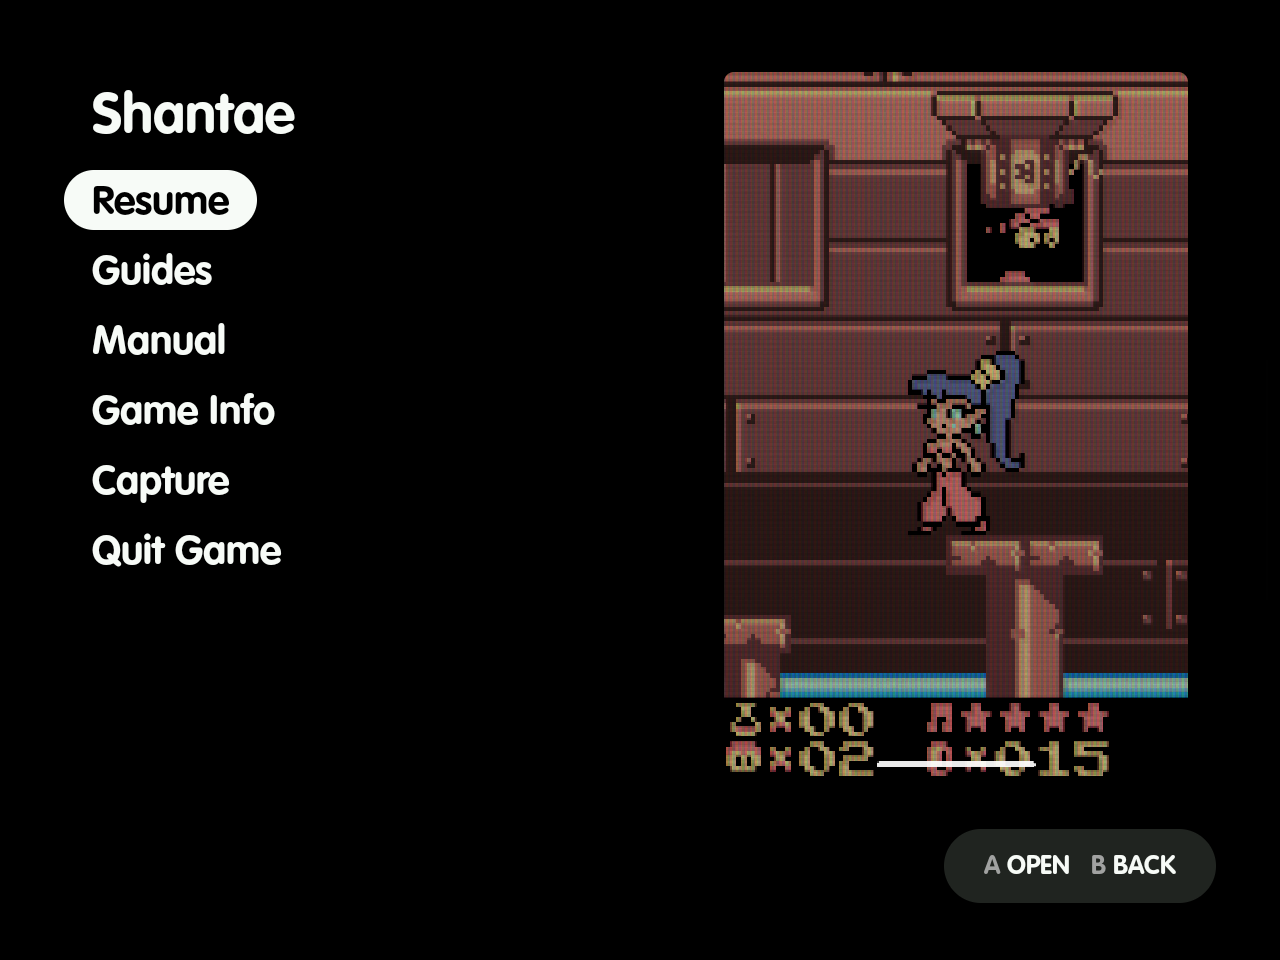
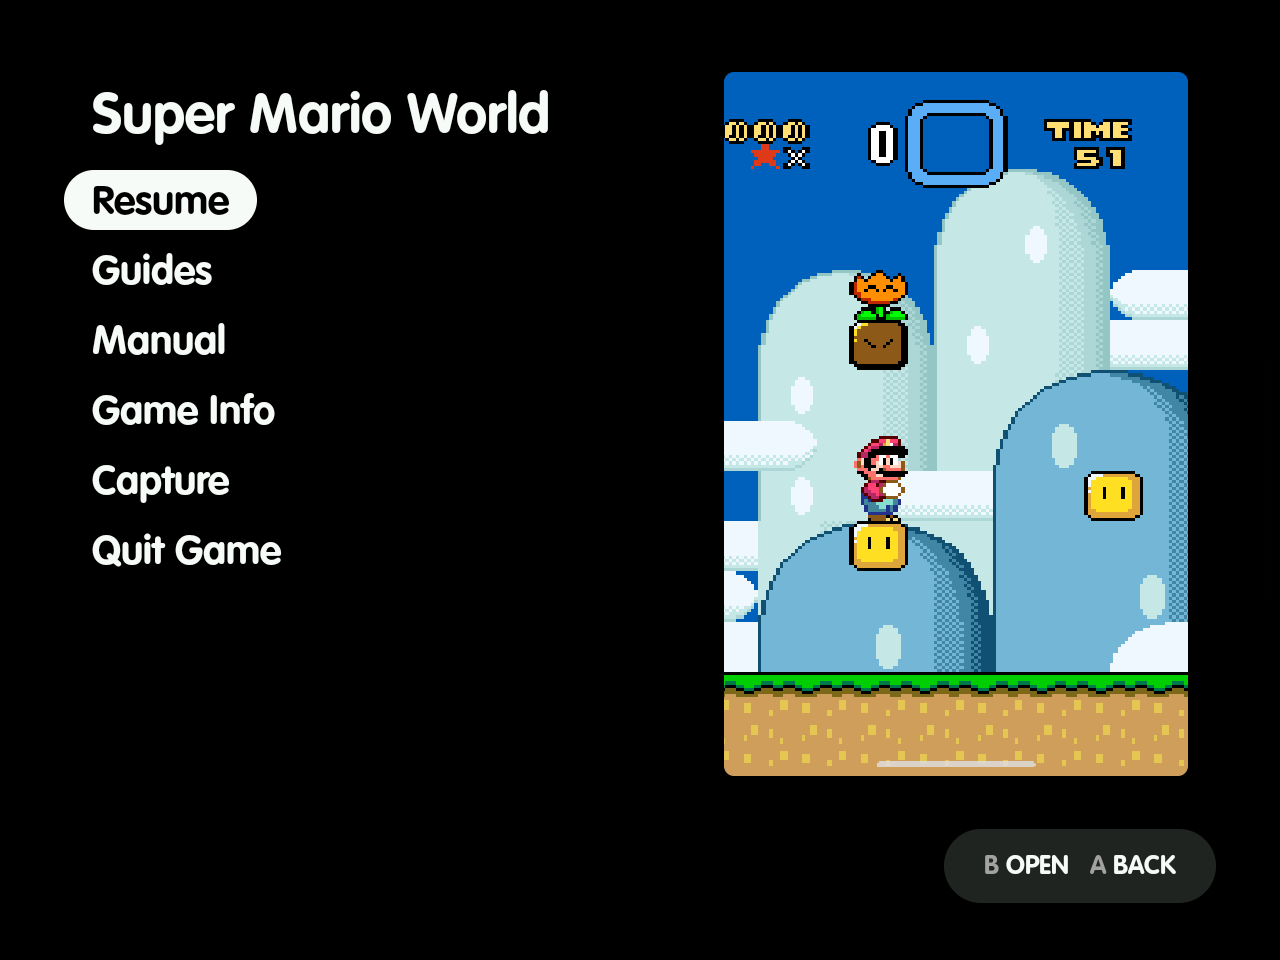
Show Super Mario World and six themes on the site
Every screenshot is reshot with Super Mario World in Yoshi's
Island 1. The menu is shown under MinUI Menu (Overlay), Art Book
Next, Iconic, TechDweeb, Canvas and Linear, each beside ES-DE's
own gamelist, in place of Modern and Slate.

Captions, example paths, Find Guides results, credits and the
video recipe follow. The Use page gains the toast screenshot and
a line on ES-DE's button swap, which the pictures show.

Changed region(s): [[0.5625, 0.0625, 0.9375, 0.8125], [0.0938, 0.0938, 0.4375, 0.1562], [0.7812, 0.875, 0.8438, 0.9062]]

diff --git a/.apo/01_Knowledge/Showcase_Video.md b/.apo/01_Knowledge/Showcase_Video.md
@@ -8,7 +8,7 @@ title: "Showcase Video"
 status: planned
 owner: ""
 created: '2026-11-09'
-updated: '2026-11-09'
+updated: '2026-11-10'
 reviewed_on: ""
 related_notes: []
 tags: [apovault, knowledge, playbooks]
@@ -22,8 +22,8 @@ How to record the two-to-three-minute showcase video on the Retroid Pocket Nova.
 
 ### Before recording
 
-- Use Shantae (`gbc`). It has a manual, a VGMaps CBZ, StrategyWiki, GameFAQs and IGN guides, and scraped media.
-- Start from the MinUI Menu (Custom) theme. Shot 11 switches to Modern, so have Modern installed from ES-DE's theme downloader.
+- Use Super Mario World (`snes`). On the Nova it has a manual, `VGMaps - Super Mario World.cbz` (76 maps), a StrategyWiki guide (98 pages), a GameFAQs guide (Crazyreyn's), an IGN guide, and scraped media.
+- Start from the MinUI Menu (Overlay) theme. Shot 11 switches to Canvas, so have Canvas installed from ES-DE's theme downloader. Art Book Next, Iconic, TechDweeb and Linear are the other themes the site shows.
 - Keep the Nova on Wi-Fi: shots 7 and 8 download guides.
 - Set ES-DE's screensaver to never (UI Settings > Screensaver settings) and set it back afterwards. The Nova's is at 1 minute.
 - Have the overlay service running with capture consent (Start Now in its settings).
@@ -82,26 +82,30 @@ For screenrecord takes, replace the `-af … -ar 48000` part with `-an`.
 
 | # | Shot | Length |
 |---|---|---|
-| 1 | ES-DE gamelist on Shantae; launch it. | 0:10 |
+| 1 | ES-DE gamelist on Super Mario World; launch it. | 0:10 |
 | 2 | Back opens the menu; D-pad over the rows; B returns to the game. | 0:10 |
 | 3 | Capture > Screenshot and Video; play for the 15 s clip; the Saved toast. | 0:25 |
 | 4 | Home: the overlay ends the game and ES-DE shows the new screenshot, then plays the clip. | 0:10 |
 | 5 | Relaunch; Manual; turn a page; R1 to zoom and pan. | 0:15 |
-| 6 | Guides > VGMaps - Shantae.cbz; Y for the maps list; jump to a map; zoom and pan. | 0:20 |
+| 6 | Guides > VGMaps - Super Mario World.cbz; Y for the maps list; jump to Yoshi's Island 1; zoom and pan. | 0:20 |
 | 7 | Find Guides > StrategyWiki; the progress; it opens; Y for the contents. | 0:25 |
-| 8 | Find Guides > Search GameFAQs; pick DEngel's guide; Save Guide; it opens in the viewer. Trim the page loads. | 0:30 |
+| 8 | Find Guides > Search GameFAQs; pick Crazyreyn's guide; Save Guide; it opens in the viewer. Trim the page loads. | 0:30 |
 | 9 | Game Info: scroll the description. | 0:05 |
 | 10 | Quit Game: ES-DE is back at once. | 0:05 |
-| 11 | ES-DE UI Settings > Theme > Modern; launch Shantae; Back: the menu now matches Modern. | 0:20 |
+| 11 | ES-DE UI Settings > Theme > Canvas; launch Super Mario World; Back: the menu now matches Canvas. | 0:20 |
 
+- **Buttons are named as ES-DE's defaults.** With ES-DE's button swap on (as on the Nova on 2026-11-10), A and B trade places, and so do X and Y; follow the hints on screen.
+- **Turn RetroArch's shader off before shot 3.** With a shader on, the captured screenshot and clip come out with wrong colours (seen 2026-11-10). The menu's picture and ES-DE's gamelist then show that capture.
+- **Shot 3 replaces the game's scraped screenshot and video in ES-DE.** Copy `snes/screenshots/Super Mario World.png` and `snes/videos/Super Mario World.mp4` off the Nova first and put them back afterwards.
+- **If Back doesn't open the menu after a launch, quit the game and launch it again.** Overlay 1.0.0 misses a launch whose log lines cross a second.
 - **Shot 4 and shot 10 both end the game.** Save in-game before them if the progress matters.
 - **Shot 8: GameFAQs may show Cloudflare's "Verify you are human" box.** Tap it yourself and cut the wait from the take.
-- **DEngel's guide is a single page**, so it saves without a progress counter. To show "Saving page N of M", use an IGN guide through Search the Web instead.
-- **Find Guides and Save Guide replace the guide files Shantae already has.** No extra files are left behind.
+- **Crazyreyn's guide is a single page**, so it saves without a progress counter. To show "Saving page N of M", use IGN's Super Mario World guide (14 pages) through Search the Web instead.
+- **Find Guides and Save Guide replace the guide files Super Mario World already has.** No extra files are left behind.
 
 ### After recording
 
-- Switch the theme back to MinUI Menu (Custom) and set the screensaver back.
+- Switch the theme back to MinUI Menu (Overlay) and set the screensaver back.
 - Keep video files out of the repo. Upload the cut, then link it from the README.
 - No title cards or music yet; add them in an editor later if wanted.
 

diff --git a/docs/use.md b/docs/use.md
@@ -14,9 +14,10 @@ Launch a game from ES-DE and press **Back** on the controller. The menu opens ov
 - **Capture** saves a screenshot, a clip, or both, into ES-DE's media folders.
 - **Quit Game** ends the game's app and returns to ES-DE.
 
-![The menu over Shantae](images/menu.png)
+![The menu over Super Mario World](images/menu.png)
 
 - The menu opens on **Resume**. The D-pad moves, **A** opens, and **B** closes the menu and returns to the game, as Resume does. The cursor stops at the first and last rows.
+- With ES-DE's **Swap the A/B and X/Y buttons** setting on, the overlay swaps them too. The screenshots here are from a device with it on, so their hints read `B OPEN` and `A BACK`.
 - **B** in any screen opened from the menu comes back to the row that opened it.
 - **Back** again closes everything the menu has open, a guide or the browser too, and returns to the game.
 - Home closes the menu and anything open over it, and goes to ES-DE. The game keeps running unless **Quit games left with Home** is on (see [Shizuku](shizuku.md)).
@@ -40,6 +41,8 @@ A toast and a notification name the saved files, e.g. `Saved: snes/screenshots/0
 System screenshots (Power + Volume down) taken during a game are filed the same way. ES-DE shows new media when you return to the gamelist; no reload is needed.
 
 ![The Capture menu](images/capture.png)
+
+![The toast naming the saved screenshot](images/capture-saved.png)
 
 ![ES-DE's gamelist showing a captured screenshot](images/esde-gamelist.png)
 
@@ -66,7 +69,7 @@ System screenshots (Power + Volume down) taken during a game are filed the same 
 
 ### Find Guides
 
-**Find Guides** checks VGMaps and StrategyWiki for the game and lists the ones that have it, e.g. `VGMaps: 56 Maps` and `StrategyWiki: Shantae (2 Pages)`.
+**Find Guides** checks VGMaps and StrategyWiki for the game and lists the ones that have it, e.g. `VGMaps: 76 Maps` and `StrategyWiki: Super Mario World (98 Pages)`.
 
 - Picking one saves it, with progress in the menu (**B** cancels and saves nothing), and then opens it. The main menu shows Guides from then on.
 - Picking a source again replaces the saved file.
@@ -162,9 +165,9 @@ Add guides next to ES-DE's other media, named like the ROM, or let **Find Guides
 Find Guides saves into the folder form, for example:
 
 ```
-<ES-DE>/downloaded_media/gbc/guides/Shantae/VGMaps - Shantae.cbz
+<ES-DE>/downloaded_media/snes/guides/Super Mario World/VGMaps - Super Mario World.cbz
 <ES-DE>/downloaded_media/snes/guides/Super Metroid/StrategyWiki - Super Metroid.html
-<ES-DE>/downloaded_media/gbc/guides/Shantae/GameFAQs - Shantae – Guide and Walkthrough by DEngel.html
+<ES-DE>/downloaded_media/snes/guides/Super Mario World/GameFAQs - Super Mario World – Guide and Walkthrough by Crazyreyn.html
 ```
 
 What each kind of save holds:

diff --git a/docs/credits.md b/docs/credits.md
@@ -17,11 +17,16 @@ ES-DE Overlay is MIT-licensed. It builds on, reads from and borrows ideas from t
 - **Your ES-DE theme.** The menu, guides and browser take the colours and fonts of the theme you use, read from the theme's own files. No theme files or fonts ship with the app, VAG Rounded included.
 - **[Linear](https://gitlab.com/es-de/emulationstation-de/-/tree/master/themes/linear-es-de)**, ES-DE's bundled theme, by Northwestern Software AB, Leon Styhre and Weestuarty. Licence: MIT. Its dark colour values are the overlay's built-in look, used when the active theme can't be read.
 
-## The theme in the screenshots
+## The themes in the screenshots
 
 - **[minui-menu-es-de](https://github.com/anthonycaccese/minui-menu-es-de)** by Anthony Caccese, a port of Shaun Inman's MinUI menu. Licence: CC BY-NC-SA, as stated in its `theme.xml`. The screenshots use a fork by ES-DE Overlay's author, **[minui-menu-overlay-es-de](https://github.com/clintonium-119/minui-menu-overlay-es-de)**, under the same licence; see [Theme](theme.md).
 - **[MinUI](https://github.com/shauninman/MinUI)** by Shaun Inman. Its repository states no licence. Its menu is where the theme's layout, and so the screenshots' look, comes from. No MinUI code is used.
-- **[Modern](https://gitlab.com/es-de/themes/modern-es-de)** and **[Slate](https://gitlab.com/es-de/themes/slate-es-de)**, ES-DE's themes from its theme downloader. Licence: CC BY-NC-SA 4.0. They appear only in screenshots.
+- **[Art Book Next](https://github.com/anthonycaccese/art-book-next-es-de)** by Anthony Caccese. Licence: CC BY-NC-SA, as stated in its `theme.xml`.
+- **[Iconic](https://github.com/Siddy212/iconic-es-de)** by Siddy212. Licence: its `theme.xml` states CC BY-NC-SA 2.0; its `LICENSE` file is CC0 1.0.
+- **[TechDweeb](https://github.com/anthonycaccese/techdweeb-es-de)**, designed by TechDweeb and ported to ES-DE by Anthony Caccese. Licence: CC BY-NC-SA, as stated in its `theme.xml`.
+- **[Canvas](https://github.com/Siddy212/canvas-es-de)** by Siddy212. Licence: its `theme.xml` states CC BY-NC-SA 2.0; its `LICENSE` file is CC0 1.0.
+
+These four come from ES-DE's theme downloader and appear only in screenshots, as does Linear, credited above. The ES-DE gamelist screenshots show each theme's own artwork.
 
 ## Inspiration
 

diff --git a/docs/theme.md b/docs/theme.md
@@ -10,15 +10,20 @@ The menu, the guide viewer and the guide browser take their colours and font fro
 - the rows and the cursor from its text list;
 - guide text from its game description text;
 - the help pill from its help prompts;
-- the background from its background.
+- the background from its background. A wallpaper picture counts as its average colour.
 
 The overlay keeps its own layout and draws solid colours, not the theme's images. Change the theme in ES-DE and the overlay follows from the next game you start.
 
-![The menu under MinUI Menu (Overlay)](images/menu.png)
+Six themes, each with ES-DE's own gamelist on the left and the overlay's menu on the right:
 
-![The menu under Modern](images/menu-modern.png)
-
-![The menu under Slate](images/menu-slate.png)
+| ES-DE's gamelist | The overlay's menu |
+| --- | --- |
+| ![ES-DE's gamelist under MinUI Menu (Overlay)](images/esde-gamelist.png) | ![The menu under MinUI Menu (Overlay)](images/menu.png) |
+| ![ES-DE's gamelist under Art Book Next](images/esde-art-book-next.png) | ![The menu under Art Book Next](images/menu-art-book-next.png) |
+| ![ES-DE's gamelist under Iconic](images/esde-iconic.png) | ![The menu under Iconic](images/menu-iconic.png) |
+| ![ES-DE's gamelist under TechDweeb](images/esde-techdweeb.png) | ![The menu under TechDweeb](images/menu-techdweeb.png) |
+| ![ES-DE's gamelist under Canvas](images/esde-canvas.png) | ![The menu under Canvas](images/menu-canvas.png) |
+| ![ES-DE's gamelist under Linear](images/esde-linear.png) | ![The menu under Linear](images/menu-linear.png) |
 
 ## Where it reads the theme from
 
@@ -110,4 +115,4 @@ To use it:
 
 These are the settings on the Retroid Pocket Nova in the screenshots. Use Small. This fork tightens Small's line spacing so ten whole rows fill the list, which keeps ES-DE's scroll jumps landing on full rows.
 
-Modern and Slate, the other two themes above, come from ES-DE's theme downloader.
+Of the other five themes above, Art Book Next, Iconic, TechDweeb and Canvas come from ES-DE's theme downloader, and Linear is built into ES-DE.

diff --git a/README.md b/README.md
@@ -9,11 +9,13 @@
 
 An in-game menu for [ES-DE](https://es-de.org) on Android. Press the controller's **Back** button during a game you launched from ES-DE, and a menu opens over the game, drawn in your ES-DE theme's colours and font. It captures into ES-DE's media, opens the game's manual and guides, shows its ES-DE info and quits the game.
 
-| MinUI Menu (Overlay) | Modern | Slate |
+| MinUI Menu (Overlay) | Art Book Next | Iconic |
 | --- | --- | --- |
-| ![The menu over Shantae under MinUI Menu (Overlay)](docs/images/menu.png) | ![The same menu under Modern](docs/images/menu-modern.png) | ![The same menu under Slate](docs/images/menu-slate.png) |
+| ![The menu over Super Mario World under MinUI Menu (Overlay)](docs/images/menu.png) | ![The same menu under Art Book Next](docs/images/menu-art-book-next.png) | ![The same menu under Iconic](docs/images/menu-iconic.png) |
+| **TechDweeb** | **Canvas** | **Linear** |
+| ![The same menu under TechDweeb](docs/images/menu-techdweeb.png) | ![The same menu under Canvas](docs/images/menu-canvas.png) | ![The same menu under Linear](docs/images/menu-linear.png) |
 
-The same menu under three ES-DE themes; the first is a [fork of minui-menu-es-de](https://github.com/clintonium-119/minui-menu-overlay-es-de). **Documentation:** [clintonium-119.github.io/es-de-overlay](https://clintonium-119.github.io/es-de-overlay/), including [how the look works](https://clintonium-119.github.io/es-de-overlay/theme.html).
+The same menu under six ES-DE themes; the first is a [fork of minui-menu-es-de](https://github.com/clintonium-119/minui-menu-overlay-es-de). **Documentation:** [clintonium-119.github.io/es-de-overlay](https://clintonium-119.github.io/es-de-overlay/), including [how the look works](https://clintonium-119.github.io/es-de-overlay/theme.html).
 
 ## What it adds
 

diff --git a/docs/index.md b/docs/index.md
@@ -5,7 +5,7 @@
 
 An in-game menu for [ES-DE](https://es-de.org) on Android. Press the controller's **Back** button during a game you launched from ES-DE, and a menu opens over the game. It's laid out like a gamelist and drawn in the colours and font of your ES-DE theme.
 
-![The overlay's menu over Shantae, in the MinUI Menu (Overlay) theme](images/menu.png)
+![The overlay's menu over Super Mario World, in the MinUI Menu (Overlay) theme](images/menu.png)
 
 ## What it does
 
@@ -15,11 +15,11 @@ An in-game menu for [ES-DE](https://es-de.org) on Android. Press the controller'
 
 **Manuals and guides in the game.** Read the game's scraped manual, or guides you add next to ES-DE's media: PDF, text, images, CBZ map packs and saved web pages. **Find Guides** gets maps from VGMaps and walkthroughs from StrategyWiki. It can also open GameFAQs, Neoseeker and ZeldaDungeon in a browser over the game and save a guide for reading offline. The viewer works like ES-DE's own manual viewer.
 
-![A VGMaps map of Shantae in the viewer](images/viewer-map.png)
+![A VGMaps map of Super Mario World in the viewer](images/viewer-map.png)
 
 **Your theme's look.** The menu, the guide viewer and the browser take their colours and font from the ES-DE theme you use. Change the theme in ES-DE and the overlay follows.
 
-![The same menu under ES-DE's Modern theme](images/menu-modern.png)
+![The same menu under the Canvas theme](images/menu-canvas.png)
 
 It also shows the game's ES-DE info and can quit the game. See [Use](use.md) for every feature and [Theme](theme.md) for how the look works.
 

diff --git a/docs/limitations.md b/docs/limitations.md
@@ -64,7 +64,7 @@ Turning the screen off when ES-DE is idle needs ES-DE's *Debug Mode*.
   - A site that changes its layout can break Save guide until the app is updated. A site could also block the in-app browser outright.
   - Elsewhere, Reader View's rules decide what the main content is, and the guide's other pages are guessed from its links. Check the list before saving.
   - Chapters found beside a chapter page come after it, not in the guide's order.
-- **Older VGMaps saves show file names.** A CBZ saved from VGMaps before maps were named shows each map's file name (`Shantae-DribbleFountain`). Saving it again from Find Guides names them.
+- **Older VGMaps saves show file names.** A CBZ saved from VGMaps before maps were named shows each map's file name, not its title. Saving it again from Find Guides names them.
 - **A text guide with no contents tags or rule lines** stays one section.
 - **Ads show in the live browser.** Saved guides leave them out.
 - **Guides with many large images make large files.** Super Metroid's GameFAQs guide with 264 images is 58 MB.
